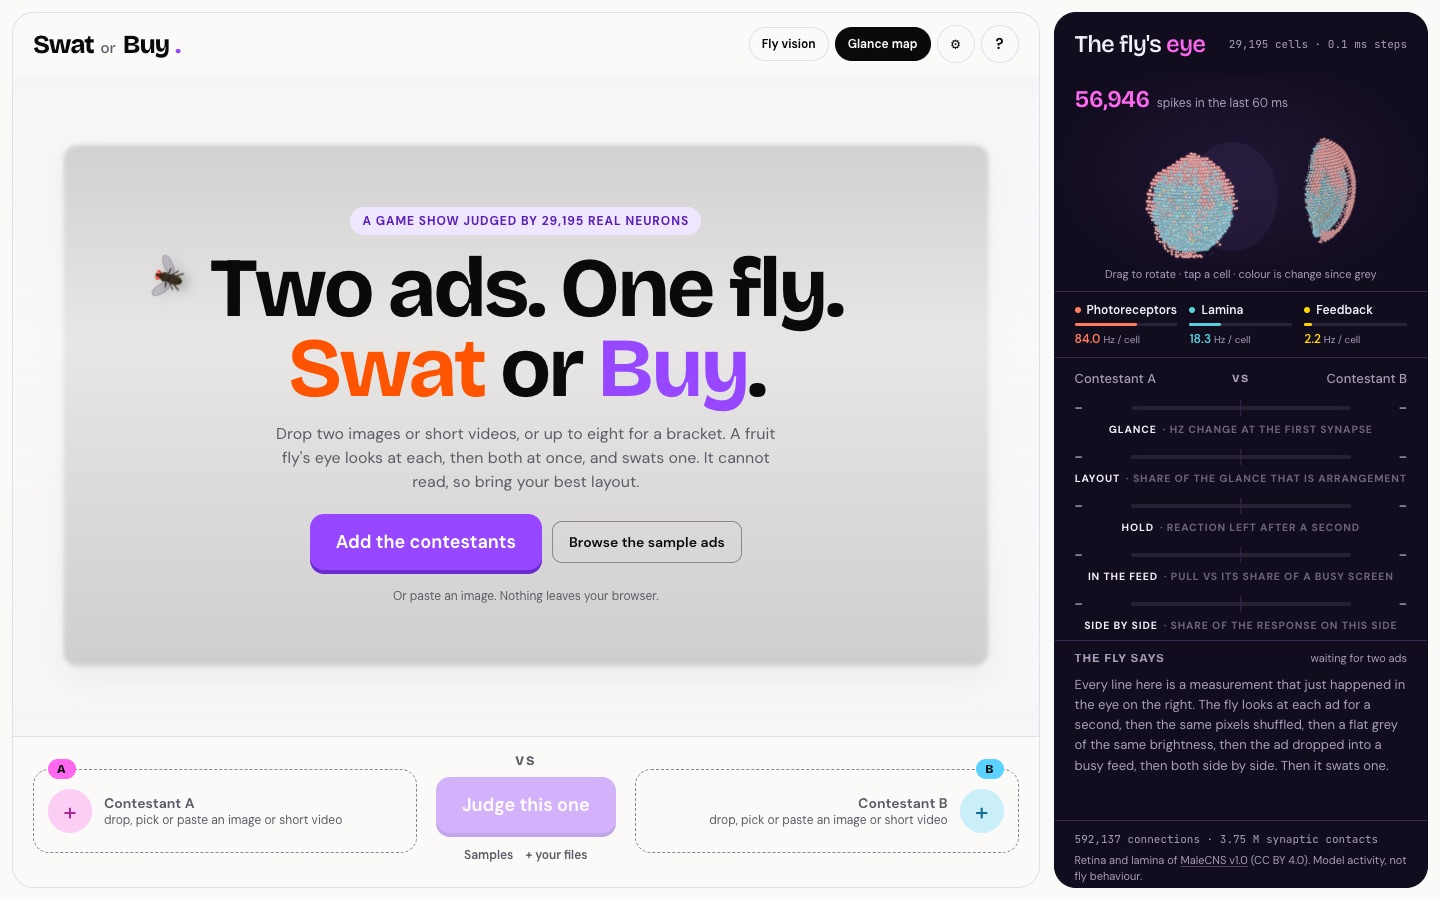
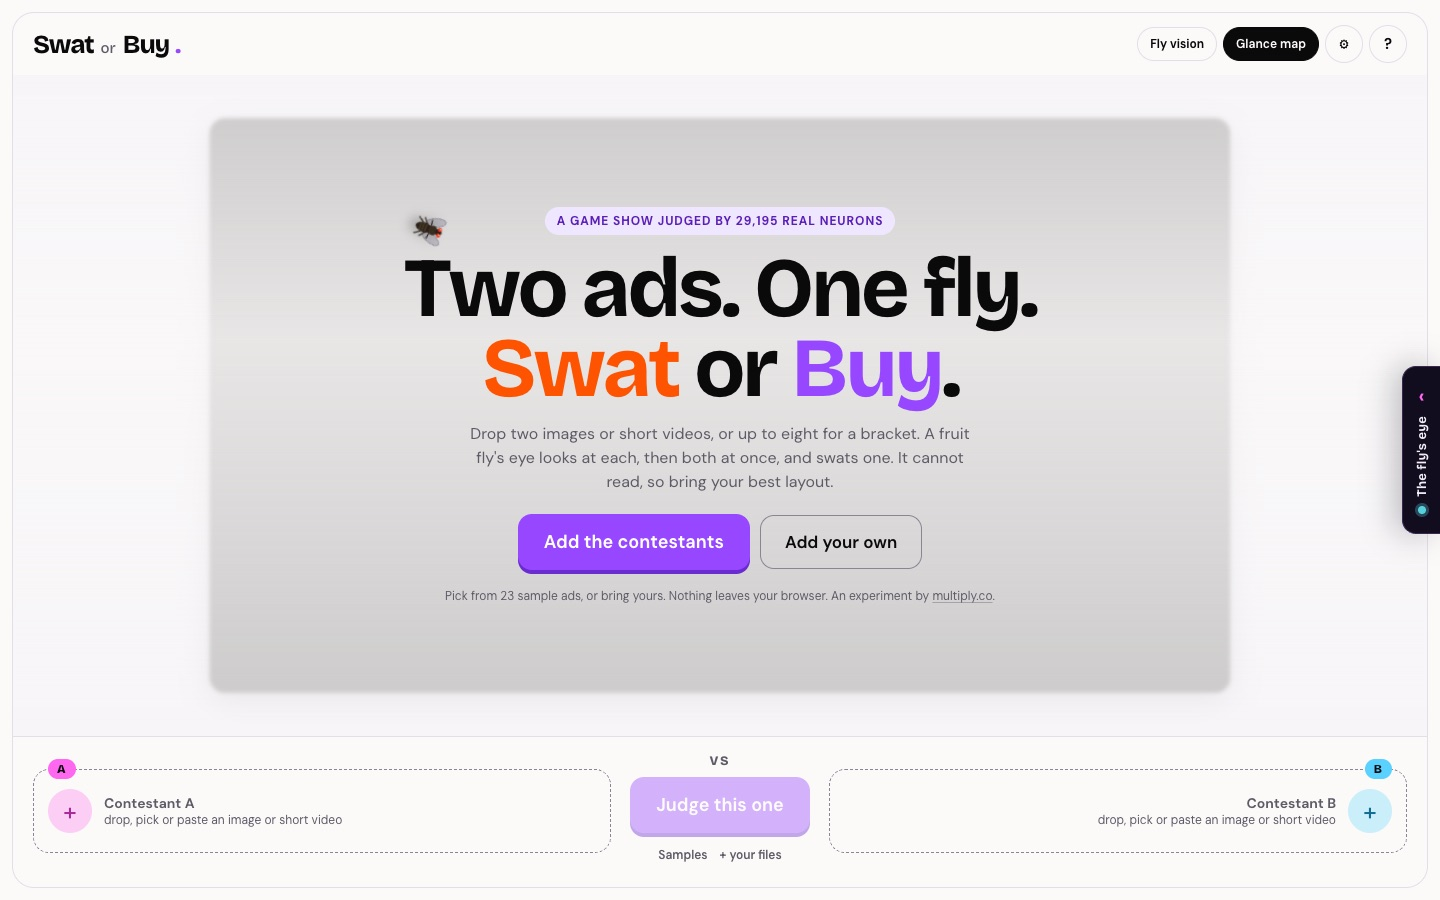
README: retake landing and line-up screenshots, add the add-your-own guide

diff --git a/README.md b/README.md
@@ -23,6 +23,8 @@ away behind a tab on the right edge and slides in when the show starts.
 
 ![Landing page](docs/screenshots/01-landing.jpg)
 
+![Add your own](docs/screenshots/01b-add-your-own.jpg)
+
 **2. Pick contestants.** Thirteen real public-domain ads from 1891 to 1921 and ten modern
 mock ads for fictional brands. Two for a duel, up to eight for a bracket.
 
